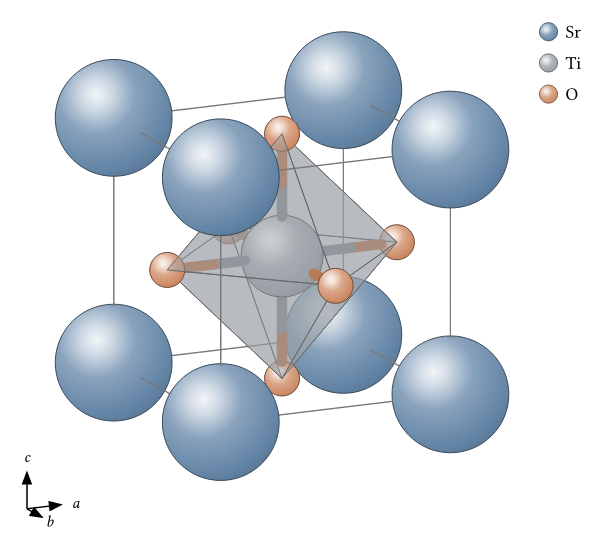
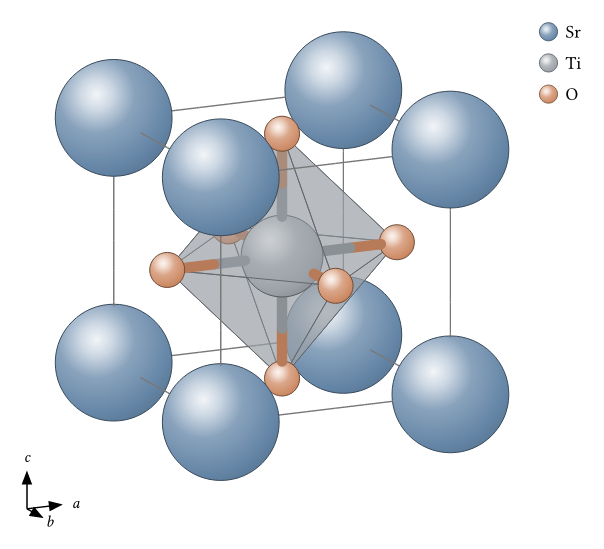
Fix polyhedron depth composition

diff --git a/scenery-engine/src/pipeline.rs b/scenery-engine/src/pipeline.rs
@@ -8,7 +8,7 @@
 use crate::bsp::{self, FaceFrag};
 use crate::clip::{clip_lines, FragGeom};
 use crate::cull;
-use crate::schema::{OutRec, Prim, Request};
+use crate::schema::{DepthKey, OutRec, Prim, Request};
 
 /// Midpoint of two points — mirror of `render.typ:70` `_mid`:
 /// `vscale(vadd(a, b), 0.5)`, i.e. `(a + b) * 0.5` component-wise.
@@ -43,6 +43,51 @@ fn depth_point(p: &Prim) -> [f64; 3] {
         Prim::Arrow { a, b } => mid(*a, *b),
         Prim::Face { pts, .. } => centroid(pts),
         Prim::Label { p } => *p, // unreachable: labels handled before this
+    }
+}
+
+fn support_points(p: &Prim) -> Vec<[f64; 3]> {
+    match p {
+        Prim::Sphere { c, .. } => vec![*c],
+        Prim::Seg { a, b, .. } | Prim::Edge { a, b } | Prim::Arrow { a, b } => vec![*a, *b],
+        Prim::Face { pts, .. } => pts.clone(),
+        Prim::Label { p } => vec![*p],
+    }
+}
+
+fn points_depth(
+    pts: &[[f64; 3]],
+    key: DepthKey,
+    cam: &crate::schema::Camera,
+) -> Result<f64, String> {
+    match key {
+        DepthKey::Center => Ok(cam.project(centroid(pts))?.depth),
+        DepthKey::Back | DepthKey::Front => {
+            let mut depths = pts.iter().map(|p| cam.project(*p).map(|q| q.depth));
+            let first = depths.next().ok_or_else(|| {
+                "scenery-engine: cannot depth-sort a primitive with no support points".to_string()
+            })??;
+            depths.try_fold(first, |acc, d| {
+                let d = d?;
+                Ok(match key {
+                    DepthKey::Back => acc.min(d),
+                    DepthKey::Front => acc.max(d),
+                    DepthKey::Center => unreachable!(),
+                })
+            })
+        }
+    }
+}
+
+fn primitive_depth(
+    p: &Prim,
+    key: DepthKey,
+    cam: &crate::schema::Camera,
+) -> Result<f64, String> {
+    match key {
+        // Preserve the historical operation order exactly on the default path.
+        DepthKey::Center => Ok(cam.project(depth_point(p))?.depth),
+        DepthKey::Back | DepthKey::Front => points_depth(&support_points(p), key, cam),
     }
 }
 
@@ -101,6 +146,9 @@ pub fn run(req: &Request) -> Result<Vec<OutRec>, String> {
     };
 
     let frags = clip_lines(prims, cam)?;
+    let depth_key = |i: usize| {
+        req.depth_keys.get(orig[i]).copied().unwrap_or_default()
+    };
 
     // BSP (issue #33): before depth ordering, split INTERSECTING translucent
     // faces so overlapping polyhedra layer correctly. Gated by `req.bsp`; opaque
@@ -127,7 +175,7 @@ pub fn run(req: &Request) -> Result<Vec<OutRec>, String> {
                     // each keyed on its OWN centroid. Only genuinely-split pieces
                     // carry `pts` (so unsplit faces reassemble bit-identically).
                     for piece in pieces {
-                        let d = cam.project(centroid(&piece.pts))?.depth;
+                        let d = points_depth(&piece.pts, depth_key(i), cam)?;
                         if !d.is_finite() {
                             return Err(format!(
                                 "scenery-engine: non-finite depth for primitive {i}"
@@ -140,7 +188,7 @@ pub fn run(req: &Request) -> Result<Vec<OutRec>, String> {
                     let p = &prims[i];
                     let d = match p {
                         Prim::Label { .. } => 1e9,
-                        _ => cam.project(depth_point(p))?.depth,
+                        _ => primitive_depth(p, depth_key(i), cam)?,
                     };
                     if !d.is_finite() {
                         return Err(format!("scenery-engine: non-finite depth for primitive {i}"));
@@ -151,7 +199,10 @@ pub fn run(req: &Request) -> Result<Vec<OutRec>, String> {
             FragGeom::Line { a, b, head } => {
                 // A fragment's depth key is its own midpoint (mirror of
                 // `_depth-point` on the lerp'd seg/edge/arrow fragment).
-                let d = cam.project(mid(*a, *b))?.depth;
+                let d = match depth_key(i) {
+                    DepthKey::Center => cam.project(mid(*a, *b))?.depth,
+                    key => points_depth(&[*a, *b], key, cam)?,
+                };
                 if !d.is_finite() {
                     return Err(format!("scenery-engine: non-finite depth for primitive {i}"));
                 }

diff --git a/scenery-engine/tests/sort.rs b/scenery-engine/tests/sort.rs
@@ -10,7 +10,7 @@ fn cam0() -> Camera {
     Camera::Ortho { cos_az: 1.0, sin_az: 0.0, cos_el: 1.0, sin_el: 0.0 }
 }
 fn req(camera: Camera, prims: Vec<Prim>) -> Request {
-    Request { camera, bsp: true, cull: None, prims }
+    Request { camera, bsp: true, cull: None, prims, depth_keys: vec![] }
 }
 
 #[test]
@@ -78,6 +78,20 @@ fn stable_sort_preserves_input_order_on_ties() {
     let out = pipeline::run(&req(cam0(), prims)).unwrap();
     assert_eq!(out.iter().map(|r| r.i).collect::<Vec<_>>(), vec![0, 1]);
     assert_eq!(out.iter().map(|r| r.d).collect::<Vec<_>>(), vec![5.0, 5.0]);
+}
+
+#[test]
+fn support_point_depth_keys_bracket_centroid() {
+    let prims = vec![Prim::Face {
+        pts: vec![[-1.0, -2.0, -1.0], [1.0, 2.0, -1.0], [0.0, 2.0, 1.0]],
+        opaque: false,
+    }];
+    let mut back = req(cam0(), prims.clone());
+    back.depth_keys = vec![DepthKey::Back];
+    let mut front = req(cam0(), prims);
+    front.depth_keys = vec![DepthKey::Front];
+    assert_eq!(pipeline::run(&back).unwrap()[0].d, -2.0);
+    assert_eq!(pipeline::run(&front).unwrap()[0].d, 2.0);
 }
 
 #[test]

diff --git a/scenery-engine/src/schema.rs b/scenery-engine/src/schema.rs
@@ -34,12 +34,23 @@ pub enum Prim {
     #[serde(rename = "label")]  Label { p: [f64; 3] },
 }
 
+#[derive(Deserialize, Debug, Clone, Copy, Default)]
+#[serde(rename_all = "kebab-case")]
+pub enum DepthKey {
+    #[default]
+    Center,
+    Back,
+    Front,
+}
+
 #[derive(Deserialize, Debug)]
 pub struct Request {
     pub camera: Camera,
     pub bsp: bool,
     pub cull: Option<Cull>,
     pub prims: Vec<Prim>,
+    #[serde(default, rename = "depth-keys")]
+    pub depth_keys: Vec<DepthKey>,
 }
 
 /// One draw record; the response is `Vec<OutRec>` in back-to-front draw order.

diff --git a/scenery-engine/tests/cull.rs b/scenery-engine/tests/cull.rs
@@ -112,7 +112,9 @@ fn pipeline_culls_first_and_preserves_original_indices() {
         Prim::Seg { a: [0.0, 1.0, -0.2], b: [0.0, 1.0, 0.2], w: 0.16 }, // 1 hidden → dropped
         Prim::Edge { a: [5.0, 0.0, -1.0], b: [5.0, 0.0, 1.0] },         // 2 free → kept
     ];
-    let req = Request { camera: cam0(), bsp: true, cull: Some(wy_cull()), prims };
+    let req = Request {
+        camera: cam0(), bsp: true, cull: Some(wy_cull()), prims, depth_keys: vec![],
+    };
     let out = pipeline::run(&req).unwrap();
     let idx: Vec<usize> = out.iter().map(|r| r.i).collect();
     assert!(!idx.contains(&1), "hidden seg 1 must be culled: {idx:?}");

diff --git a/scenery-engine/tests/bsp.rs b/scenery-engine/tests/bsp.rs
@@ -29,7 +29,7 @@ fn cam30() -> Camera {
 }
 
 fn req(camera: Camera, bsp: bool, prims: Vec<Prim>) -> Request {
-    Request { camera, bsp, cull: None, prims }
+    Request { camera, bsp, cull: None, prims, depth_keys: vec![] }
 }
 
 fn pts_of(p: &Prim) -> &[[f64; 3]] {

diff --git a/docs/plans/2026-07-13-sphere-face-depth-design.md b/docs/plans/2026-07-13-sphere-face-depth-design.md
@@ -1,0 +1,40 @@
+# Sphere/face depth composition
+
+## Problem
+
+Coordination-polyhedron faces end at ligand atom centres. A face and its ligand
+sphere therefore intersect, but scenery currently assigns the whole face its
+centroid depth. Depending on the camera, that single key can paint the face over
+the opaque sphere and produce triangular wedges through the atom. Shrinking the
+atoms or changing the camera only hides the renderer defect.
+
+## Design
+
+Add an opt-in `depth-key` primitive field with three policies:
+
+- `"center"` (default): preserve today's centre/midpoint/centroid key exactly.
+- `"back"`: use the smallest camera depth among the primitive's support points.
+- `"front"`: use the largest camera depth among the support points.
+
+The default remains byte-compatible. Wyckoff coordination faces use
+`depth-key: "back"` together with their existing `-0.01` camera-depth offset.
+The support-point policy retains physical ordering among polyhedron faces; the
+offset breaks the exact tie at a ligand centre so its opaque sphere paints
+after the face. This is narrower and more truthful than a global "all atoms on
+top" layer, which would hide genuinely foreground geometry. Exact polygon
+subtraction against spherical silhouettes is rejected here: it requires curved
+fragment geometry or a z-buffer and is disproportionate for intersections at
+shared polyhedron vertices.
+
+Both the pure Typst sorter and the Rust/WASM accelerator implement the same
+policy. Invalid policies fail during Typst sorting with a focused message.
+
+## Verification
+
+- Pure renderer tests pin the default order, `back` order, `front` order, and
+  invalid-policy failure.
+- The Typst/Rust structural equivalence gate includes a non-default depth key.
+- Wyckoff scene tests require all coordination faces to opt into `back`.
+- `make test` and `make examples` pass.
+- Regenerate `wyckoff/images/perovskite.png` and `site/assets/perovskite.png`,
+  then inspect the result for clean O/Ti sphere silhouettes.

diff --git a/scenery/README.md b/scenery/README.md
@@ -74,7 +74,7 @@ Inside a shared `cetz.canvas`, `scene-group` registers these logical anchors wit
 
 ## How it works
 
-A scene is a flat array of typed primitives — plain dictionaries tagged by `kind`, e.g. `(kind: "sphere", center: (0,0,0), r: 0.6)`. Nothing in the data model touches CeTZ. At render time named coordinates are resolved for the selected camera, then each primitive is projected orthographically. Segments, edges, and arrows are split at opaque sphere silhouettes and planar face boundaries; intervals genuinely hidden by an opaque object are removed. Opaque meshes cull rear faces by default, while translucent meshes retain both sides with quieter rear strokes. The remaining primitives are keyed by camera depth (spheres by centre, line fragments by midpoint, faces by centroid), sorted far-to-near, and drawn. Spheres use radial-gradient shading, faces are flat-shaded from one world light, and labels stay on top. Styling is a pure three-layer merge — theme defaults, per-kind block, then each primitive's own hooks — so colours and widths are just named arguments on the constructors.
+A scene is a flat array of typed primitives — plain dictionaries tagged by `kind`, e.g. `(kind: "sphere", center: (0,0,0), r: 0.6)`. Nothing in the data model touches CeTZ. At render time named coordinates are resolved for the selected camera, then each primitive is projected orthographically. Segments, edges, and arrows are split at opaque sphere silhouettes and planar face boundaries; intervals genuinely hidden by an opaque object are removed. Opaque meshes cull rear faces by default, while translucent meshes retain both sides with quieter rear strokes. The remaining primitives are keyed by camera depth (spheres by centre, line fragments by midpoint, faces by centroid), sorted far-to-near, and drawn. For intersecting geometry, `depth-key: "back"` or `"front"` anchors a primitive at its farthest or nearest support point instead of the default centre key. Spheres use radial-gradient shading, faces are flat-shaded from one world light, and labels stay on top. Styling is a pure three-layer merge — theme defaults, per-kind block, then each primitive's own hooks — so colours and widths are just named arguments on the constructors.
 
 ## API reference
 
@@ -88,7 +88,7 @@ Grouped by source module; every name below is exported from the package root.
 | `seg(a, b, name:, ..style)` | Thick round-capped segment (e.g. a bond); width `w` in scene units. |
 | `edge(a, b, name:, ..style)` | Thin wireframe edge (absolute stroke width). |
 | `arrow(from, to, name:, ..style)` | Arrow with a scaled head (`head`, `w`). |
-| `face(pts, name:, ..style)` | Filled planar polygon; `fill-opacity` and optional `cull` visibility policy. |
+| `face(pts, name:, ..style)` | Filled planar polygon; `fill-opacity`, optional `cull`, and `depth-key` (`"center"`/`"back"`/`"front"`). |
 | `mesh(vertices, faces, name:, ..style)` | Indexed polygon mesh; adaptive back-face culling, `cull`, and `hidden-stroke`. |
 | `label(at, text, name:, ..style)` | Text at a 3D point; `text-anchor` controls alignment. |
 | `build-scene(..prims)` | Flattens primitives/groups and validates object names. |